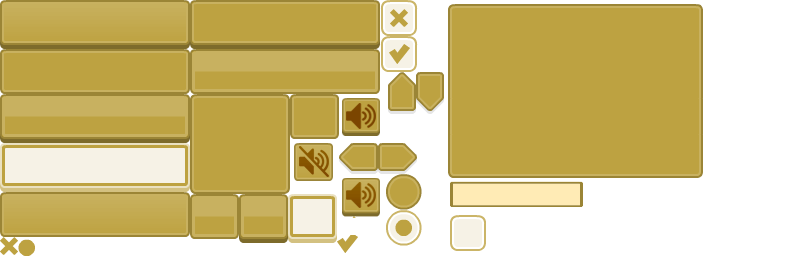
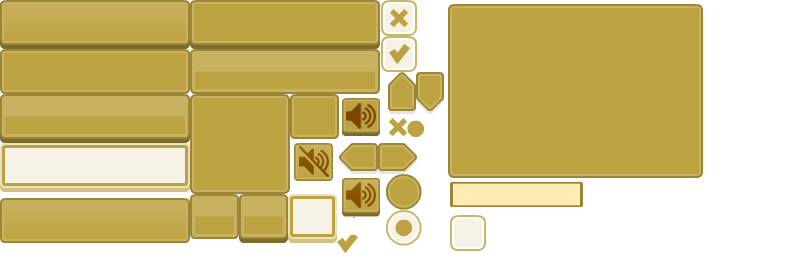
Solved Bugs

Changed region(s): [[0.0, 0.9062, 0.2466, 1.0], [0.0, 0.75, 0.2466, 0.7812], [0.4624, 0.4688, 0.524, 0.5312]]

diff --git a/Dev_class5_handout/Motor2D/j1SceneMenu.cpp b/Dev_class5_handout/Motor2D/j1SceneMenu.cpp
@@ -39,12 +39,12 @@ bool j1SceneMenu::Start()
 	App->render->camera = { -1100,0 };
 	LoadLevel();
 
-	App->gui->gui_list.add(App->gui->CreateButton({ 410, 95 }, SDL_Rect({ 0,0,190,49 }), "Play"));
+	App->gui->gui_list.add(App->gui->CreateButton({ 410, 95 }, "Play"));
 	//App->gui->gui_list.add(App->gui->CreateButton({ 420, 145 }, SDL_Rect({ 4,1,177,40 }),"Continue" ));
 	//App->gui->gui_list.add(App->gui->CreateButton({ 370, 224 }, SDL_Rect({ 5,173,120,28 }), "Exit"));
 
 	////Config Button
-	App->gui->gui_list.add(App->gui->CreateButton({ 660, 215 }, SDL_Rect({ 342,98,38,38 })));
+	//App->gui->gui_list.add(App->gui->CreateButton({ 660, 215 }, SDL_Rect({ 342,98,38,38 })));
 
 	////App->gui->gui_list.add(App->gui->CreateButton({ 85, 35 }, SDL_Rect({ 182,5,176,40 })));
 	////App->gui->gui_list.add(App->gui->CreateButton({ 85, 105 }, SDL_Rect({ 182,5,176,40 })));
@@ -67,7 +67,7 @@ bool j1SceneMenu::Start()
 	//App->gui->gui_list.add(App->gui->CreateButton({ 890, 28 }, SDL_Rect({ 291,247,15,16 })));
 
 	////Cap FPS
-	App->gui->gui_list.add(App->gui->CreateButton({ 965, 85 }, SDL_Rect({ 450,215,36,36 })));
+	//App->gui->gui_list.add(App->gui->CreateButton({ 965, 85 }, SDL_Rect({ 450,215,36,36 })));
 
 	//App->gui->gui_list.add(App->gui->CreateLabel({ 400, 17 }, "Trinity's", TITLE, { 0, 0, 0, 0 }));
 	//App->gui->gui_list.add(App->gui->CreateLabel({ 410, 50 }, "Journey", TITLE, { 0,0,0,0 }));

diff --git a/Dev_class5_handout/Motor2D/UI_Button.h b/Dev_class5_handout/Motor2D/UI_Button.h
@@ -2,19 +2,10 @@
 #include "UI_GUI.h"
 #include "SDL/include/SDL.h"
 
-enum Button_Type
-{
-	PLAY,
-	CONTINUE,
-	SETTINGS,
-	CREDITS,
-	EXIT
-};
-
 class  UI_Button :public UI_GUI
 {
 public:
-	UI_Button(SDL_Rect rect, const char* text);
+	UI_Button(const char* text);
 	~UI_Button() {};
 	bool Start();
 
@@ -27,7 +18,6 @@ private:
 	SDL_Rect	button_rect_hover;
 	SDL_Rect	button_rect_click;
 	p2SString	button_text;
-	Button_Type	button_type;
 
 };
 

diff --git a/Dev_class5_handout/Motor2D/j1Gui.cpp b/Dev_class5_handout/Motor2D/j1Gui.cpp
@@ -116,10 +116,10 @@ UI_GUI* j1Gui::CreateSprite(iPoint pos, SDL_Rect rect)
 	return sprite;
 }
 
-UI_GUI*j1Gui::CreateButton(iPoint pos, SDL_Rect rect, const char* text)
+UI_GUI*j1Gui::CreateButton(iPoint pos, const char* text)
 {
 	UI_GUI* button = nullptr;
-	button = new UI_Button(rect, text);
+	button = new UI_Button(text);
 	button->pos.x = pos.x;
 	button->pos.y = pos.y;
 

diff --git a/Dev_class5_handout/Motor2D/j1Gui.h b/Dev_class5_handout/Motor2D/j1Gui.h
@@ -46,7 +46,7 @@ public:
 
 	UI_GUI* CreateLabel(iPoint pos, const char* text, Label_Type type, SDL_Color color = {0,0,0,0});
 	UI_GUI* CreateSprite(iPoint pos, SDL_Rect rect);
-	UI_GUI* CreateButton(iPoint pos, SDL_Rect rect, const char* text = "");
+	UI_GUI* CreateButton(iPoint pos, const char* text = "");
 
 	SDL_Texture* GetAtlas() const;
 	p2List<UI_GUI*> gui_list;

diff --git a/Dev_class5_handout/Motor2D/UI_Button.cpp b/Dev_class5_handout/Motor2D/UI_Button.cpp
@@ -9,11 +9,11 @@
 #include "j1Window.h"
 
 
-UI_Button::UI_Button(SDL_Rect rect, const char* text)
+UI_Button::UI_Button(const char* text)
 {
-	button_rect = rect;
+	button_rect = {0,0,190,49};
 	button_rect_hover = {190,0,190,49};
-	button_rect_click = {0,192,190,51};
+	button_rect_click = {0,194,190,51};
 	button_text.create(text);
 }
 
